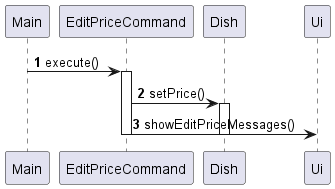
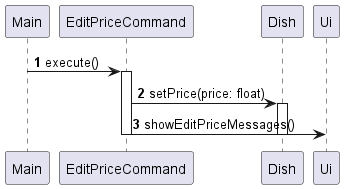
Update Parser and editPriceCommand_execute UML

diff --git a/docs/DeveloperGuide.md b/docs/DeveloperGuide.md
@@ -10,7 +10,7 @@
 
 ### Parser
 
-![Parser Parsing User Input Sequence Diagram](ParserParseCommand.png)
+![Parser Parsing User Input Sequence Diagram](Parser.png)
 
 *figure 1: Parser Parsing User Input Sequence Diagram*
 
